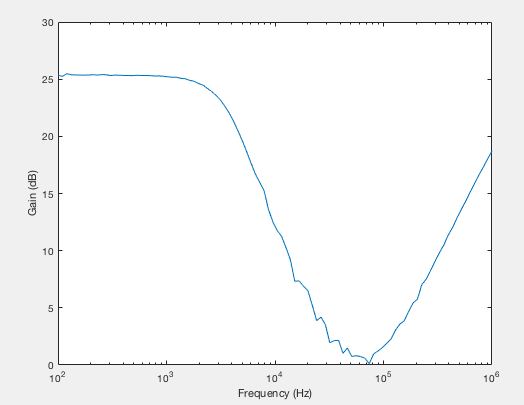
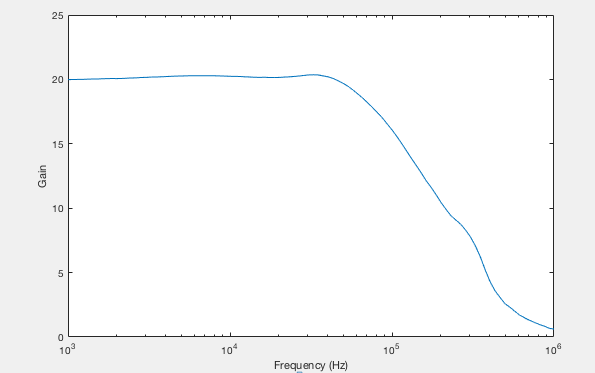
Added new graphs for experimental

diff --git a/ECE_343_Task_5/ExperimentalImplementation/experimental.tex b/ECE_343_Task_5/ExperimentalImplementation/experimental.tex
@@ -130,7 +130,7 @@ The op amp shown is the op amp desgined in prior in Task 4. The ideal gain was i
 		\hfill
 		\begin{subfigure}[b]{0.45\textwidth}
 			\centering
-		\includegraphics[scale=.40]{ExperimentalImplementation/invertingphase.png}
+		\includegraphics[scale=.40]{ExperimentalImplementation/phaseinverting.png}
 \caption{Phase plot of inverting amplifier}
 \label{fig:invertingphase}
 		\end{subfigure}
@@ -142,7 +142,7 @@ The op amp shown is the op amp desgined in prior in Task 4. The ideal gain was i
 
 
 	
-The gain can be seen to be 27dB, when converted to V/V is found to be -23 V/V. This is slightly larger than what was expected in the ideal case. It should be noted that the negattive sign of this measurement comes from the fact that the phase plot starts at 180$^\circ$ phase. Notably, this configuration seems to have driven the op amp back into instability with the dissappearance of the 0dB crossing. The spectrum plot for the inverting configuration can be seen in Figure \ref{fig:spectrum}.
+The gain can be seen to be 20 V/V.  It should be noted that the negattive sign of this measurement comes from the fact that the phase plot starts at 180$^\circ$ phase. Notably, this configuration seems to have driven the op amp back into instability with the dissappearance of the 0dB crossing. The spectrum plot for the inverting configuration can be seen in Figure \ref{fig:spectrum}.
 
 		\begin{figure}[H]
 	\begin{center}
@@ -170,7 +170,7 @@ This configuration should, under ideal operation, provide 21V/V  of gain. The me
 			\centering
 			\begin{subfigure}[b]{0.45\textwidth}
 				\centering
-				\includegraphics[scale=.40]{ExperimentalImplementation/gainnoninverting.png}
+				\includegraphics[scale=.40]{ExperimentalImplementation/noninvertingain.png}
 \caption{Gain of non-inverting amplifier}
 \label{fig:gainnoninverting1}
 			\end{subfigure}
@@ -185,7 +185,7 @@ This configuration should, under ideal operation, provide 21V/V  of gain. The me
 			\label{fig:gainnoninverting}
 		\end{figure} 
 		
-The measured gain was nearly 27dB and when converted to V/V yields 23.8 V/V.  This larger than the predicted 21 V/V but with the correct phase of 0. Notably, this configuration remained stable.
+The measured gain yields 21.5 V/V.  This is slightly larger than the predicted 21 V/V but with the correct phase of 0. With only a minor differences in the measured gain from the expected gain, the circuit operated as intended.
 
 
 
